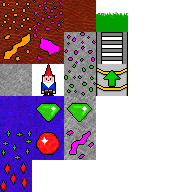
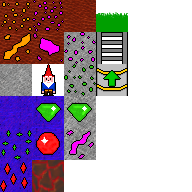
Player now has level for pickaxe and drill (other system)

Changed region(s): [[0.1562, 0.8125, 0.3438, 1.0]]

diff --git a/app/sprites/Shop.py b/app/sprites/Shop.py
@@ -140,6 +140,7 @@ class Shop(pygame.sprite.Sprite):
         if self.sold:
             self.data.lvlPickaxe += 1
             self.data.player.LeftClickMode = PLAYER_DIG_MODE
+            self.data.player.setStrength()
             self.sold = False
 
     def buyPickaxe3(self):
@@ -147,6 +148,7 @@ class Shop(pygame.sprite.Sprite):
         if self.sold:
             self.data.lvlPickaxe += 1
             self.data.player.LeftClickMode = PLAYER_DIG_MODE
+            self.data.player.setStrength()
             self.sold = False
 
     def buyDrill1(self):
@@ -154,6 +156,7 @@ class Shop(pygame.sprite.Sprite):
         if self.sold:
             self.data.lvlDrill += 1
             self.data.player.LeftClickMode = PLAYER_DRILL_MODE
+            self.data.player.setStrength()
             self.sold = False
 
     def buyDrill2(self):
@@ -161,6 +164,7 @@ class Shop(pygame.sprite.Sprite):
         if self.sold:
             self.data.lvlDrill += 1
             self.data.player.LeftClickMode = PLAYER_DRILL_MODE
+            self.data.player.setStrength()
             self.sold = False
 
     def buyDrill3(self):
@@ -168,18 +172,21 @@ class Shop(pygame.sprite.Sprite):
         if self.sold:
             self.data.lvlDrill += 1
             self.data.player.LeftClickMode = PLAYER_DRILL_MODE
+            self.data.player.setStrength()
             self.sold = False
 
     def buyDynamite1(self):
         self.buy('dynamiteLvl1')
         if self.sold:
             self.data.lvlDynamite += 1
+            self.data.player.setStrength()
             self.sold = False
 
     def buyDynamite2(self):
         self.buy('dynamiteLvl2')
         if self.sold:
             self.data.lvlDynamite += 1
+            self.data.player.setStrength()
             self.sold = False
 
     def doNothing(self):

diff --git a/app/sprites/Drill.py b/app/sprites/Drill.py
@@ -8,20 +8,15 @@ class Drill(pygame.sprite.Sprite):
 
         self.player = player
 
-        self.strength = 0
-
         if lvlDrill == 1:
             name1 = 'drillLvl1-a.png'
             name2 = 'drillLvl1-b.png'
-            self.strength = 1
         elif lvlDrill == 2:
             name1 = 'drillLvl2-a.png'
             name2 = 'drillLvl2-b.png'
-            self.strength = 10
         elif lvlDrill == 3:
             name1 = 'drillLvl3-a.png'
             name2 = 'drillLvl3-b.png'
-            self.strength = 100
         self.imageOrig = list()
         self.imageOrig.append(pygame.image.load(os.path.join('img', name1)))
         self.imageOrig.append(pygame.image.load(os.path.join('img', name2)))

diff --git a/app/sprites/Pickaxe.py b/app/sprites/Pickaxe.py
@@ -8,16 +8,12 @@ class Pickaxe(pygame.sprite.Sprite):
 
         self.player = player
 
-        self.strength = 0
         if lvlPickaxe == 1:
             nameImg = 'pickaxe.png'
-            self.strength = 1
         elif lvlPickaxe == 2:
             nameImg = 'pickaxeLvl2.png'
-            self.strength = 10
         elif lvlPickaxe == 3:
             nameImg = 'pickaxeLvl3.png'
-            self.strength = 100
 
 
         self.imageOrig = pygame.image.load(os.path.join('img', nameImg))

diff --git a/app/settings.py b/app/settings.py
@@ -87,6 +87,11 @@ GRENADE_SPEEDX = 2
 GRENADE_SPEEDY = 2
 TARGET_DISTANCE = 35
 
+#PLAYER_STRENGTH
+PICKAXE_STRENGTH_LEVEL = (0,1,10,100)
+DRILL_STRENGTH_LEVEL = (0,1,10,100)
+DYNAMITE_STRENGTH_LEVEL = (0,10,100)
+
 #ENEMY MODE
 WALKING = 1
 PREPARE_ATTACK = 2
